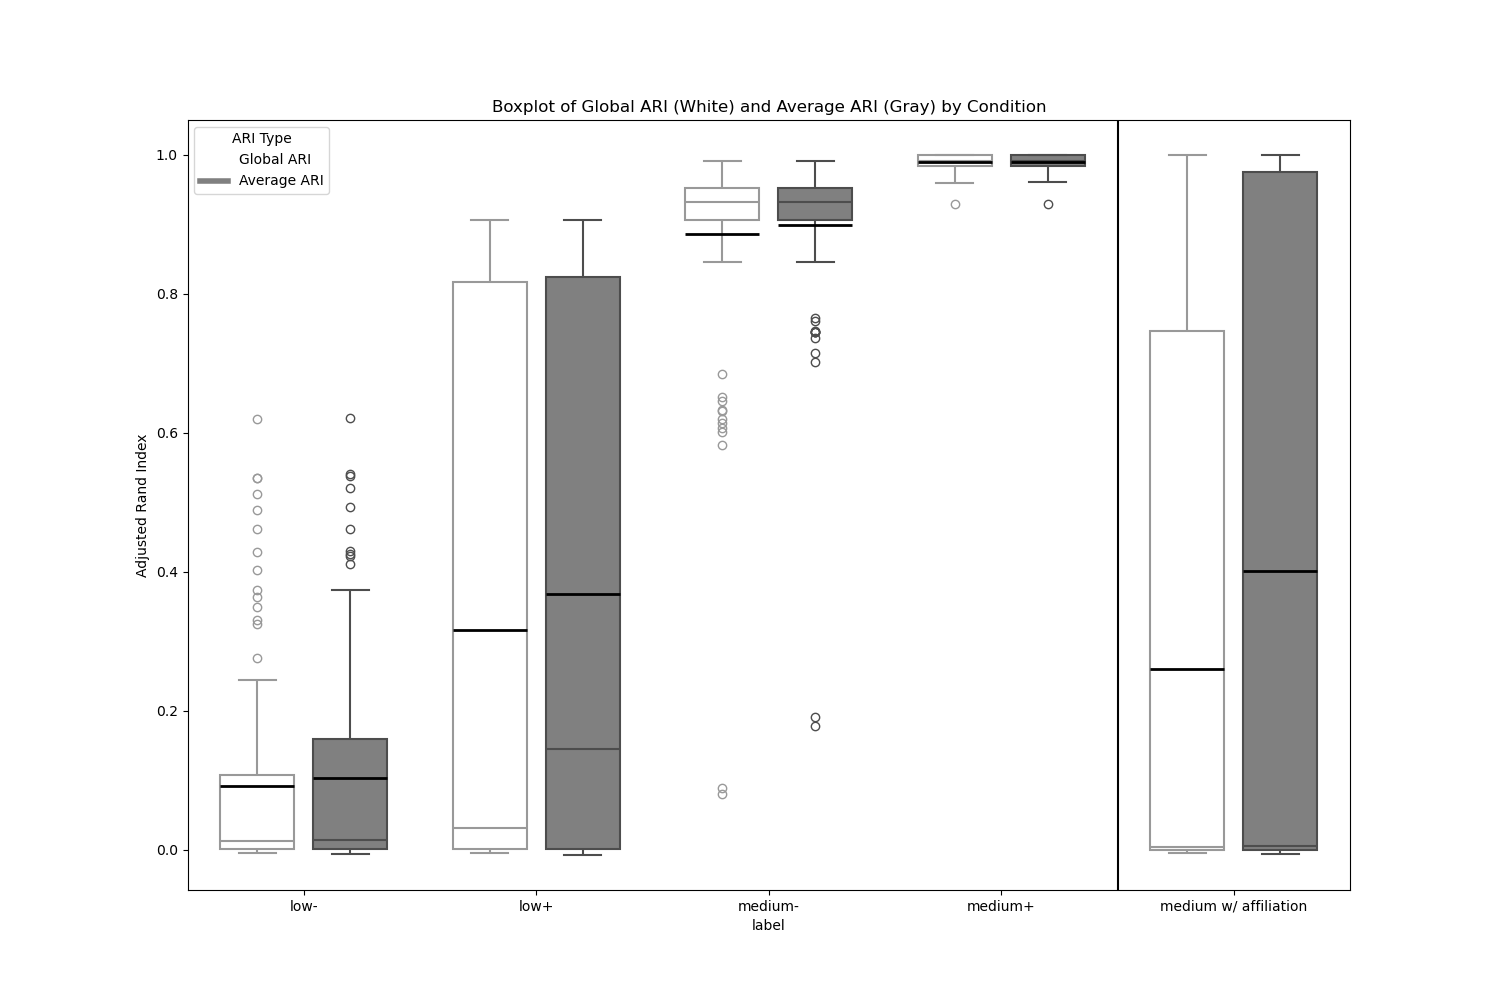
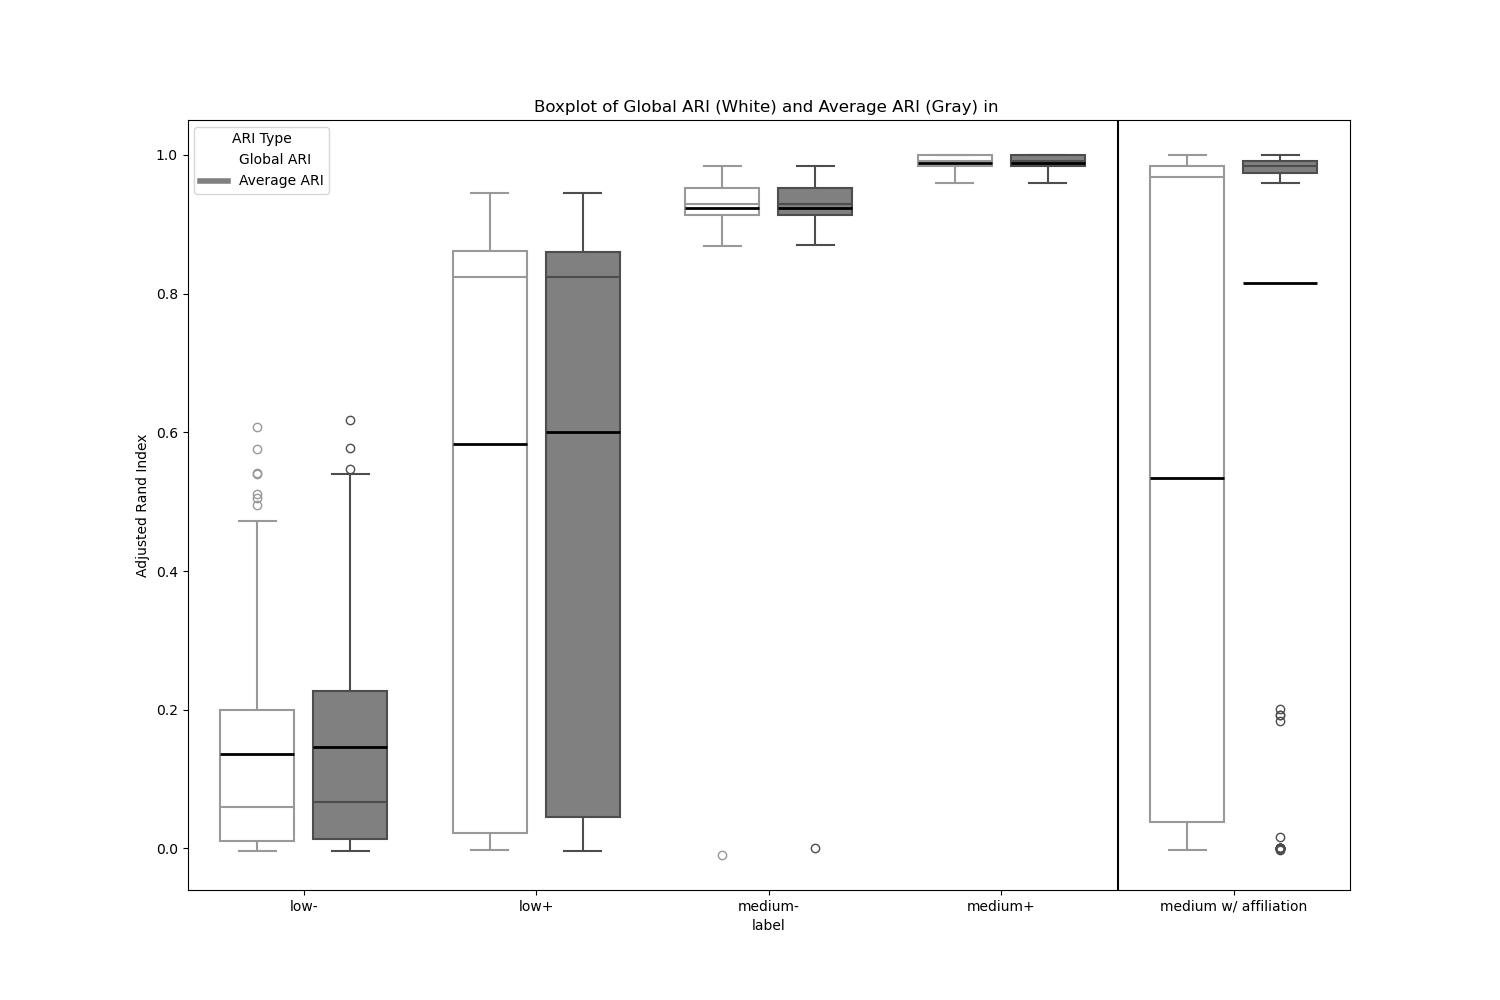
241113

diff --git a/boxpolt_enumerate.py b/boxpolt_enumerate.py
@@ -3,7 +3,7 @@ import matplotlib.image as mpimg
 from matplotlib.gridspec import GridSpec
 
 # 파일 경로 및 설정
-setting = '100_5_0p9'
+setting = '100_5_0p75'
 file_paths = [
     f'plot/{setting}/{setting}_boxplot_global_average.png',          # Ours - Random
     f'plot/{setting}/{setting}_boxplot_kmeans_global_average.png',   # Ours - K-means

diff --git a/boxplot2.py b/boxplot2.py
@@ -4,7 +4,7 @@ import seaborn as sns
 
 
 
-setting = '100_5_0p9'
+setting = '100_5_0p75'
 
 
 
